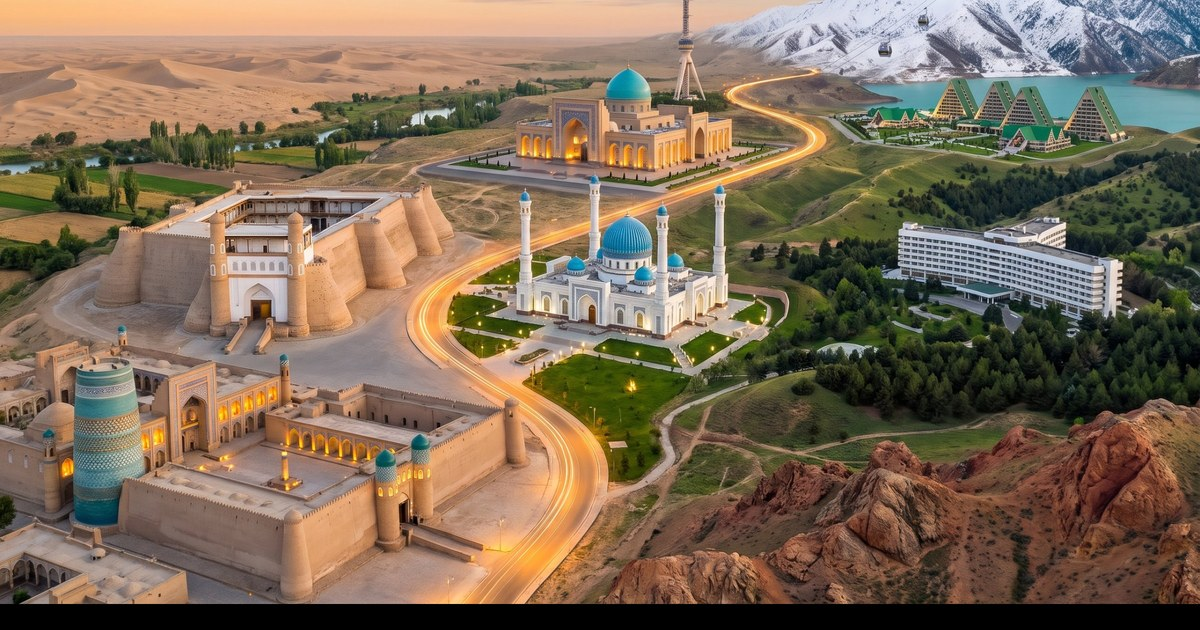
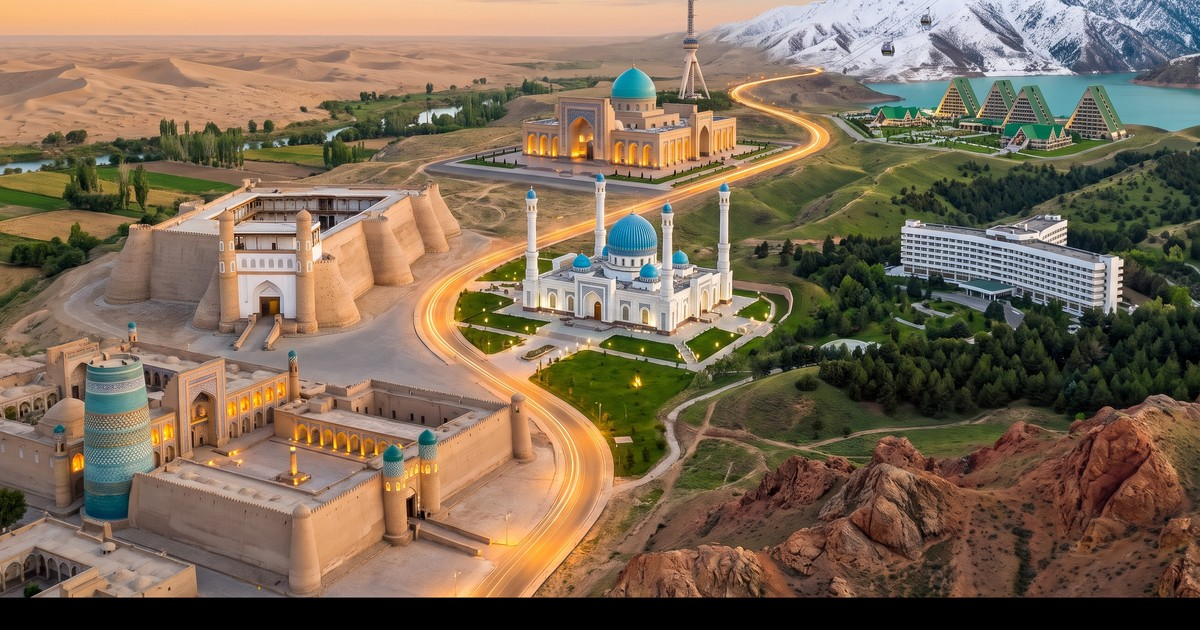
Главная: оригинал картинки 2752×1536 без пересжатия чата, рендер в полном разрешении экрана
Claude-Session: https://claude.ai/code/session_019rvsgJd1NsjFrsZph4atX1

diff --git a/index.html b/index.html
@@ -148,7 +148,7 @@
          по дороге, рябь на воде, туман. Цифры в маршруте — из каталога. -->
     <section class="silk-hero" id="hero" aria-labelledby="silk-hero-title">
       <div class="sx-scene" aria-hidden="true">
-        <img class="sx-img" src="assets/hero/silk4-1600.webp" srcset="assets/hero/silk4-960.webp 960w, assets/hero/silk4-1600.webp 1600w, assets/hero/silk4-2560.webp 2560w" sizes="(max-width: 760px) 260vw, 100vw" alt="" fetchpriority="high" />
+        <img class="sx-img" src="assets/hero/silk5-1600.webp" srcset="assets/hero/silk5-960.webp 960w, assets/hero/silk5-1600.webp 1600w, assets/hero/silk5-2752.webp 2752w" sizes="(max-width: 760px) 260vw, 100vw" alt="" fetchpriority="high" />
         <canvas class="sx-gl"></canvas>
       </div>
       <div class="sx-shade" aria-hidden="true"></div>
@@ -723,7 +723,7 @@
   <script src="js/verticals.js"></script>
   <script src="js/main.js"></script>
   <script src="js/home-v2.js?v=unified_nav_1"></script>
-  <script src="js/hero-silk.js?v=silk_7"></script>
+  <script src="js/hero-silk.js?v=silk_8"></script>
   <script src="js/support-core.js"></script>
 </body>
 </html>

diff --git a/js/hero-silk.js b/js/hero-silk.js
@@ -29,7 +29,7 @@
   const easeIO = (t) => (t < .5 ? 4 * t * t * t : 1 - Math.pow(-2 * t + 2, 3) / 2);
   const easeOut = (t) => 1 - Math.pow(1 - t, 3);
 
-  const IMG_AR = 2576 / 1438;
+  const IMG_AR = 2752 / 1536;
   const DWELL = 5200; // сколько держим регион в автотуре, мс
 
   /* Символы регионов: t — где на дороге, (u,v) — точка метки,
@@ -354,7 +354,7 @@ void main(){
   let W = 0, H = 0, visible = true, raf = 0, last = 0, t0 = 0;
   function resize() {
     const r = canvas.getBoundingClientRect();
-    const dpr = Math.min(window.devicePixelRatio || 1, mobileMQ.matches ? 1.5 : 1.75);
+    const dpr = Math.min(window.devicePixelRatio || 1, mobileMQ.matches ? 1.5 : 2);
     W = Math.max(1, Math.round(r.width * dpr)); H = Math.max(1, Math.round(r.height * dpr));
     if (canvas.width !== W || canvas.height !== H) { canvas.width = W; canvas.height = H; }
   }
